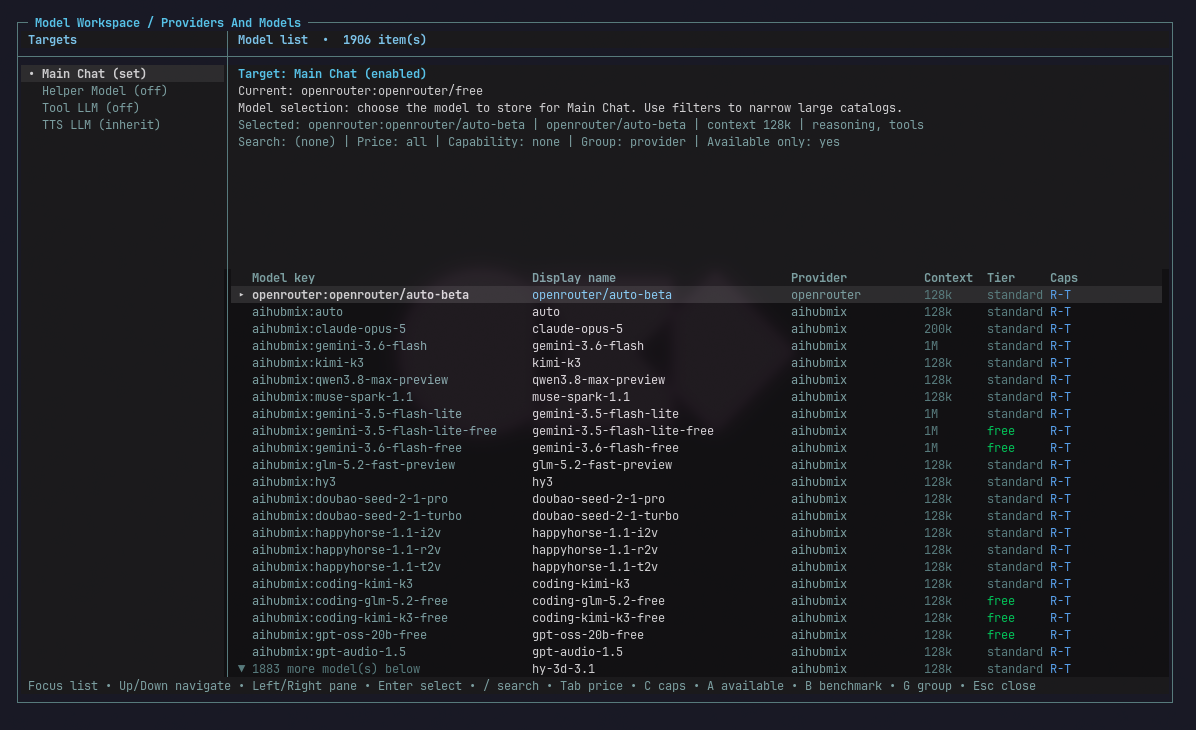
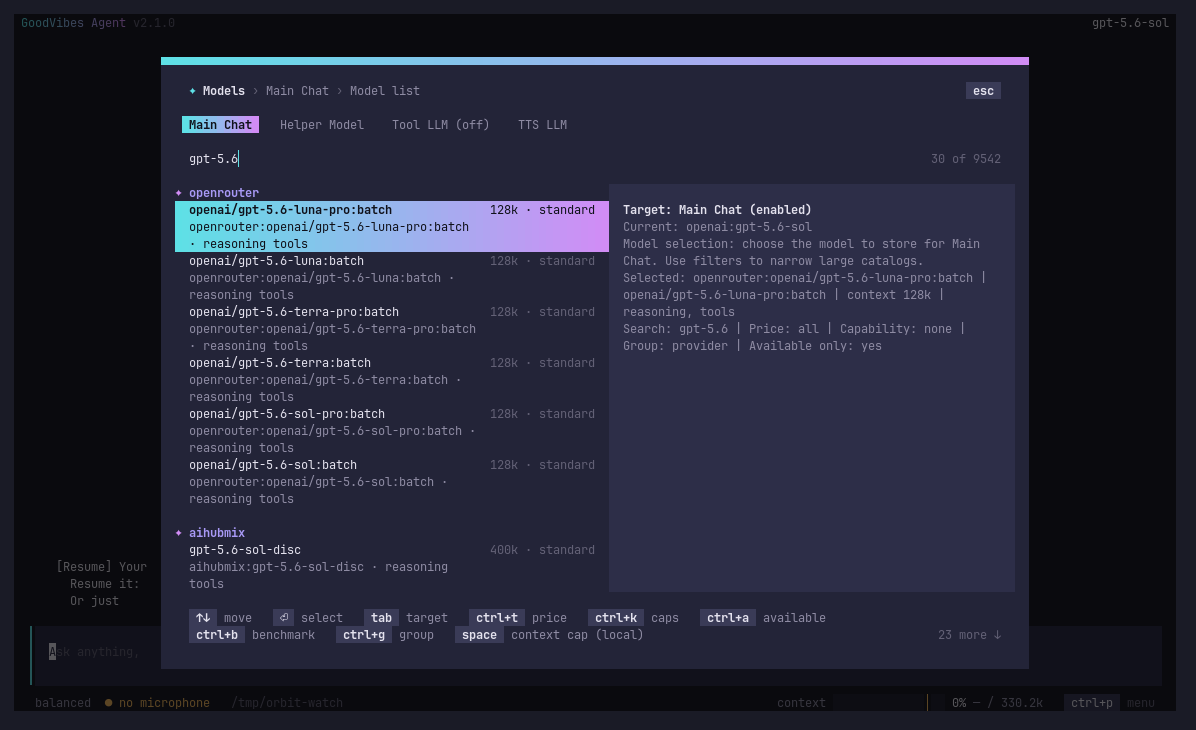
README screenshots show the 2.1.0 interface [skip ci]

diff --git a/README.md b/README.md
@@ -6,7 +6,7 @@
 
 GoodVibes Agent is an installable autonomous operator assistant. You run `goodvibes-agent` and get one workspace for chat, planning, memory, research, scheduling, and confirmation-gated automation, backed by a connected GoodVibes host that supplies the operator API, schedules, channels, knowledge, media, and remote-execution routes. Agent presents that capability as a user-first harness, with route planning, plain-language confirmations, and redacted receipts for anything it sends, spends, or writes, instead of exposing raw daemon plumbing. It can also reuse provider, permission, and other shared settings already configured for goodvibes-tui or another published GoodVibes platform store, so setup does not start from zero.
 
-<img src="docs/assets/operator-workspace.png" alt="The fullscreen GoodVibes Agent operator workspace. A left column lists operator areas under an Onboarding heading, with Start and Models flagged for attention. The right pane is headed Start, 16 actions, and summarises setup state: 3 of 13 done, 4 need attention, the current chat route, a count of local personas, skills, routines, and memories, and a next step reading Connected-host auth, blocked. Below, a Setting / Default / Current table lists the available actions: use a local model with no sign-in, sign in to a provider, choose main model, import GoodVibes settings, reasoning effort medium, save history true, and a Finish setup row. A footer shows the workspace key hints." width="900">
+<img src="docs/assets/operator-workspace.png" alt="The GoodVibes Agent 2.1.0 workspace opened with /agent, a large modal over the conversation headed Agent workspace, Home, 10 actions. A left column lists the areas by group: start with Home; onboarding with Start, Models, Messaging, and Voice and Media checked, Behavior, Tools and Permissions, and Interface, and Local Context flagged for attention; day-to-day with Personal Ops, Research, Documents and Files, and Conversation; capabilities with Tools and MCP and Knowledge; local behavior with Profiles, Your Profile, Memory, Notes, Personas, Skills, and Routines; and an operations group with 4 more below. The right pane summarises Home: everything the assistant can do, one lane per kind of work, the selected action Just start typing, the assistant ready on the openai GPT-5.6 Sol chat route, a set of Ready lines for setup, models, project work, personal operations, research and writing, and background work, and one Attention line saying a safety finding needs review. Below, a Setting, Default, Current table lists the Home actions from Just start typing to Set interaction mode, and a status line reads Ready. The hint row reads arrows to move and switch pane, Enter open, slash search, ctrl+] next area, R refresh." width="900">
 
 ---
 
@@ -52,7 +52,7 @@ Connect Agent to a GoodVibes daemon before using daemon-backed features. The def
 
 ## A short tour
 
-**The workspace is the product.** `goodvibes-agent` opens straight into a fullscreen operator workspace (reopen it any time with `/agent`, `/home`, or `/operator`); slash commands and CLI subcommands are power-user and scriptable mirrors of the same actions. Press `/` inside the workspace to search every action by name, category, command, or detail.
+**The workspace is the product.** `goodvibes-agent` opens the operator workspace on first launch to walk you through setup; after that it opens to the conversation, and `/agent` (or `/home`, `/operator`) brings the workspace up over it any time; slash commands and CLI subcommands are power-user and scriptable mirrors of the same actions. Press `/` inside the workspace to search every action by name, category, command, or detail.
 
 **One assistant, several jobs.** Beyond normal chat, the workspace gives you read-only web research with explicit hand-off into Agent Knowledge, versioned document drafting with blind model comparison, a Personal Ops area for inbox/agenda/task/reminder/note requests, and an Operator Runtime view of the connected host's own methods and service posture.
 
@@ -64,7 +64,7 @@ Connect Agent to a GoodVibes daemon before using daemon-backed features. The def
 
 **The model can plan its own route.** Ask a plain question like "email the team a summary" or "what's blocked in setup" and the underlying model can call a route planner that maps the request to the right tool and confirmation boundary before doing anything. It does not have to guess at internal tool names, and ambiguous requests come back as candidates instead of a wrong guess.
 
-<img src="docs/assets/model-picker.png" alt="The Model Workspace, headed Providers And Models. A left column lists the routing targets: Main Chat set, Helper Model off, Tool LLM off, and TTS LLM inherit. The right pane shows the selected target with its current route, the highlighted model and its context window and capabilities, and a filter row for search, price, capability, grouping, and availability. Below, a table of 1906 catalogued models lists model key, display name, provider, context window, tier, and capability flags, with a row indicating 1883 more models below and a footer of list shortcuts including search, price, capabilities, availability, benchmark, and grouping." width="900">
+<img src="docs/assets/model-picker.png" alt="The Agent's Models modal opened with /model, headed Models, Main Chat, Model list. Tabs name the routing targets: Main Chat, selected, Helper Model, Tool LLM (off), and TTS LLM. The search field holds gpt-5.6 and the count reads 30 of 9542. The left column lists matching models grouped by provider, OpenRouter's gpt-5.6 luna, terra, and sol variants and then aihubmix's gpt-5.6-sol-disc, each with its full key, context window, tier, and reasoning and tools capability tags. The right pane shows the target Main Chat (enabled), the current model openai:gpt-5.6-sol, the highlighted selection, and the active search, price, capability, grouping, and availability filters. The hint rows read arrows to move, Enter select, tab target, ctrl+t price, ctrl+k caps, ctrl+a available, ctrl+b benchmark, ctrl+g group, space context cap for local models, and 23 more." width="900">
 
 **Isolated by design.** Agent Knowledge is its own segment. Agent only talks to `/api/goodvibes-agent/knowledge/*` and never falls back to another product's knowledge store. Named Agent profiles (`goodvibes-agent profiles create ...`) give you separate, isolated config, sessions, memory, and personas per household, project, or role.
 
